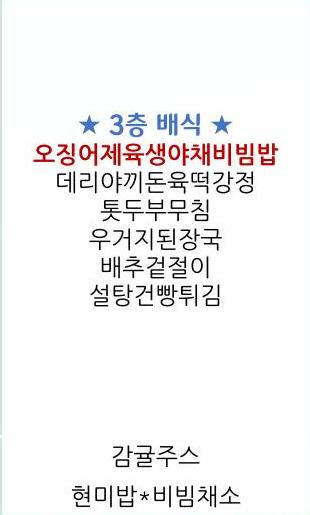
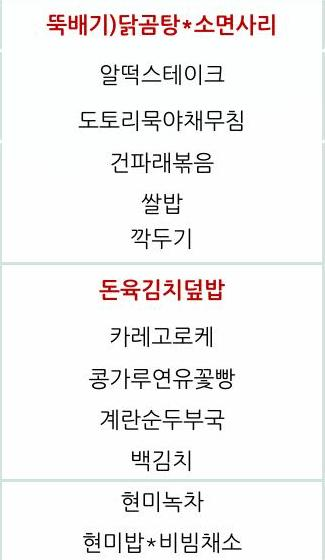
Add Data (Week 26)

Changed region(s): [[0.0, 0.0, 1.0, 1.0], [0.1452, 0.0, 0.871, 0.1553], [0.2613, 0.6524, 0.7258, 0.7767]]

diff --git a/src/python/image_crop.py b/src/python/image_crop.py
@@ -23,14 +23,14 @@ def execute_image_crop(location):
         top = 470
         bottom = 1065
     elif location == '명동':
-        mon = 455
-        tue = 765
+        mon = 430
+        tue = 755
         wed = 1080
-        thu = 1395
-        fri = 1710
-        end = 2030
-        top = 450
-        bottom = 965
+        thu = 1405
+        fri = 1735
+        end = 2065
+        top = 410
+        bottom = 970
 
     image_cropping("week", (mon, top, end, bottom))
 
